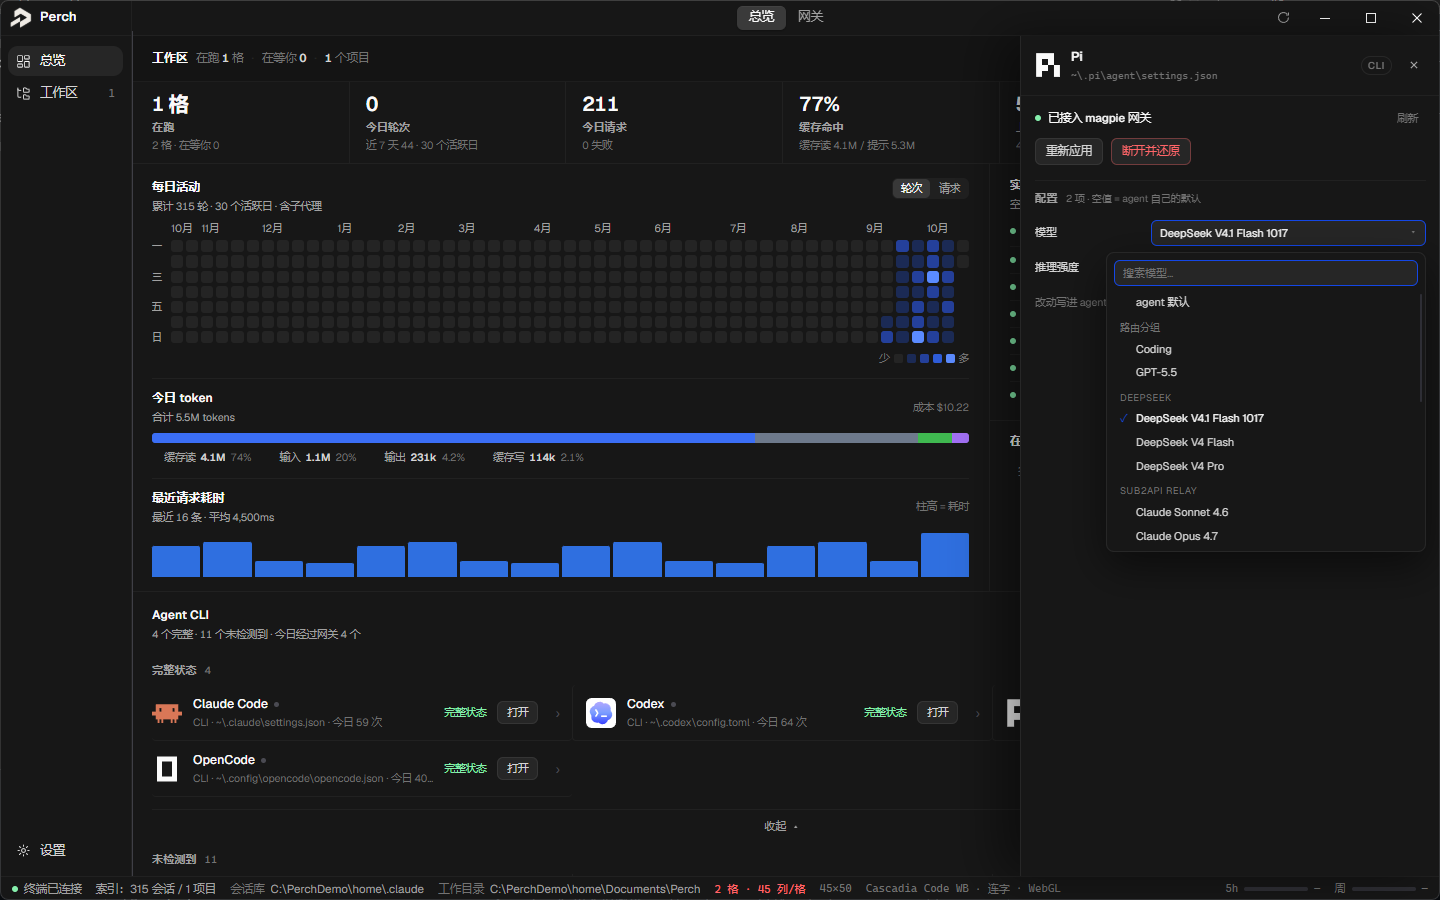
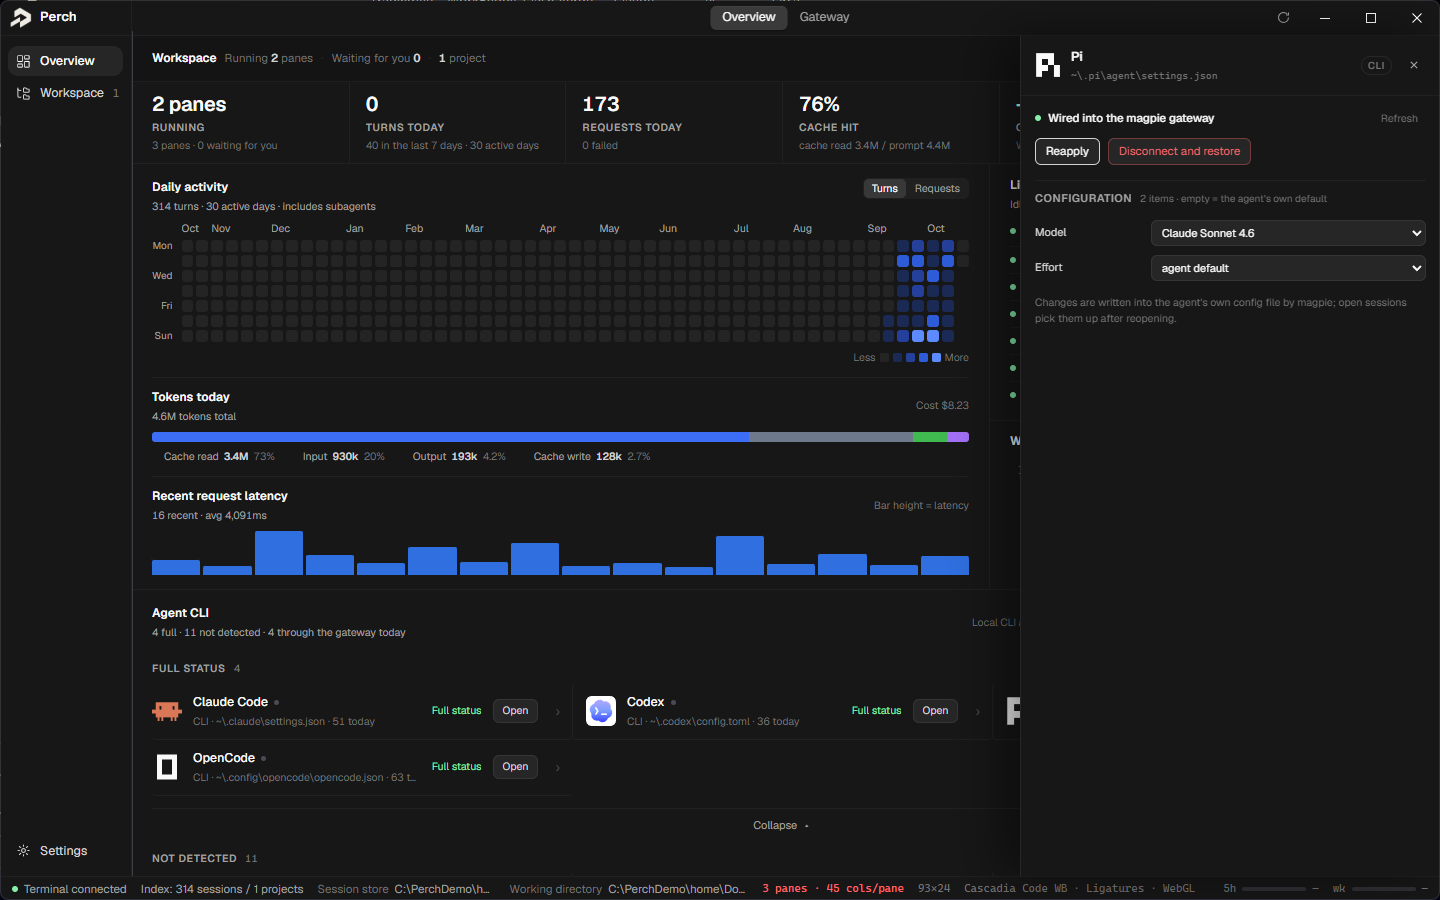
docs: refresh README screenshots in English
Captured from an isolated demo profile with seeded, fictional data, so the
images show no local paths, sessions, prompts, or provider keys.

diff --git a/README.md b/README.md
@@ -13,7 +13,7 @@ Run several agents side by side in one window — one real terminal per pane. Co
 </div>
 
 <p align="center">
-  <a href="docs/images/overview.png"><img src="docs/images/overview.png" alt="Perch overview: parallel agent panes, gateway usage, and the agent catalog" width="960"></a>
+  <a href="docs/images/overview.png"><img src="docs/images/overview.png" alt="Perch overview: workspace status, gateway usage, and the agent catalog" width="960"></a>
 </p>
 
 Perch is a Windows desktop gateway for agent terminals, in the same **agent development environment** category as Orca.
@@ -41,7 +41,7 @@ Each pane is a live ConPTY with its own scrollback, tab, and status dot. Switchi
 
 </td>
 <td width="50%">
-  <a href="docs/images/overview.png"><img src="docs/images/overview.png" alt="Parallel agent panes in the Perch overview" width="100%"></a>
+  <a href="docs/images/overview.png"><img src="docs/images/overview.png" alt="Workspace status, activity, and the agent catalog in the Perch overview" width="100%"></a>
 </td>
 </tr>
 <tr>
@@ -53,7 +53,7 @@ Connect, disconnect, re-apply, or keep the current configuration. Long model lis
 
 </td>
 <td width="50%">
-  <a href="docs/images/agent-wiring.png"><img src="docs/images/agent-wiring.png" alt="Agent configuration drawer with gateway wiring and a searchable model picker" width="100%"></a>
+  <a href="docs/images/agent-wiring.png"><img src="docs/images/agent-wiring.png" alt="Agent configuration drawer with gateway wiring and model selection" width="100%"></a>
 </td>
 </tr>
 <tr>
@@ -65,7 +65,7 @@ Providers, routing, usage, and plugins use magpie's own pages; the version and u
 
 </td>
 <td width="50%">
-  <a href="docs/images/gateway.png"><img src="docs/images/gateway.png" alt="Embedded magpie gateway with usage, sessions, models, and agent statistics" width="100%"></a>
+  <a href="docs/images/gateway.png"><img src="docs/images/gateway.png" alt="Embedded magpie gateway showing usage, sessions, projects, and models" width="100%"></a>
 </td>
 </tr>
 </table>
